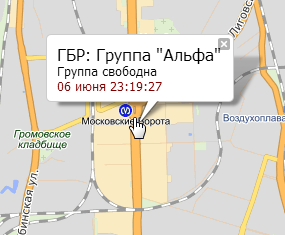
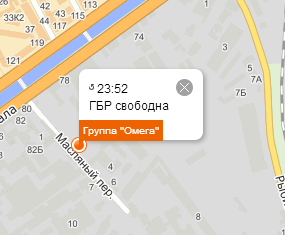
обновленная ситуационная карта

diff --git a/russian/12-cloud-services.md b/russian/12-cloud-services.md
@@ -54,21 +54,39 @@
 
 ## Ситуационная карта
 
-Облачная услуга «Ситуационная карта» предназначена для отображения на карте местности оперативной информации о тревожных объектах «Центра охраны» и текущем местоположении экипажей ГБР.
+Облачная услуга «Ситуационная карта» предназначена для отображения на карте местности оперативной информации об объектах «Центра охраны» и текущем местоположении экипажей ГБР.
 
 ![Ситуационная карта][id-13-03]
 
 Ссылки на ситуационную карту генерируются в административной панели учетной записи партнера в секции «Ситуационная карта». Здесь их можно скопировать в буфер при помощи одноименной функции и после этого передать ответственным лицам.
 
-Для отображения на карте тревожные объекты предварительно должны быть размещены на карте местности в модуле «Менеджер объектов» на вкладке «Объект». При щелчке правой кнопкой мыши на маркере объекта на ситуационной карте появится окно с информацией: номер, наименование и адрес объекта, а также дата и время тревоги.
+Для отображения на карте объекты предварительно должны быть размещены на карте местности в модуле «Менеджер объектов» на вкладке «Объект». 
+
+Маркеры объектов на карте различаются цветами. Зеленым цветом отображаются объекты, снятые с охраны, синим - взятые под охрану, красным - тревожные объекты. 
+
+По умолчанию на ситуационной карте отображаются все объекты. Управлять отображением нетревожных объектов на ситуационной карте можно с помощью кнопок «Сняты с охраны» и «Взяты под охрану». При их нажатии отображаются снятые с охраны и соответственно взятые под охрану объекты.
+
+Если нетревожные объекты при используемом масштабе карты располагаются слишком близко друг к другу, они кластеризуются для более удобного отображения. Внутри маркера кластера приводится информация о количестве объединенных в него объектов. 
+
+![Ситуационная карта: кластер][id-13-03-00]
+
+При щелчке правой кнопкой мыши по маркеру кластера масштаб карты устанавливается таким образом, чтобы объекты различались по отдельности. Если объекты визуально неразличимы друг от друга при максимальном масштабе, можно кликнуть по маркеру кластера для вызова окна с информацией о номере, названии и адресе объектов, объединенных в кластер.
+
+Внутри маркера объекта приводится номер объекта. Если объект тревожный, здесь также отображается время первой тревоги. При щелчке правой кнопкой мыши на маркере объекта на ситуационной карте появится окно с информацией: наименование и адрес объекта. 
+
+![Ситуационная карта: объект][id-13-03-01]
+
+Для тревожного объекта здесь также указывается время первой и последней тревоги.
 
 ![Ситуационная карта: тревожный объект][id-13-03-02]
 
 Отображение местоположения ГБР на карте возможно при наличии у экипажа планшета с установленным и запущенным мобильным приложением «Тревога в ГБР». В приложение должен быть осуществлен вход с помощью пароля доступа, предоставленного администратором учетной записи партнера. Кроме того, в приложении должна быть разрешена передача координат. Если ГБР не передает координаты более 300 секунд, группа перестает отображаться на ситуационной карте.
 
-Маркеры экипажей ГБР на карте различаются цветами. Синим цветом отображаются ГБР в режиме ожидания вызова, красным - ГБР на реагировании. 
+Маркеры экипажей ГБР на карте различаются цветами. Оранжевым цветом отображаются ГБР в режиме ожидания вызова, красным - ГБР на реагировании. 
 
-Внутри маркера ГБР приведено название группы. При щелчке правой кнопкой мыши на маркере ГБР появится окно с информацией о времени получения от планшета текущего местоположения группы и о ее состоянии (группа свободна или на реагировании). 
+Внутри маркера ГБР приводится название группы. Если группа вызвана и подтвердила вызов на объект, здесь также отображается номер объекта. 
+
+При щелчке правой кнопкой мыши на маркере ГБР появится окно с информацией о времени получения от планшета текущего местоположения группы и о ее состоянии (группа свободна или на реагировании).
 
 ![Ситуационная карта: свободная ГБР][id-13-03-03]
 
@@ -209,6 +227,8 @@ Web-интерфейс инженера предназначен для удал
 [id-13-01]: img/CldSrvcs-01-RouterConnection.png "Подключение Телефонного роутера"
 [id-13-02]: img/CldSrvcs-02-CallCenterServices.png "Выбор услуг при звонке в «Call-центр»"
 [id-13-03]: img/CldSrvcs-03-SituationalMap.png "Ситуационная карта"
+[id-13-03-00]: img/CldSrvcs-03-SituationalMap-00.png "Ситуационная карта: кластер"
+[id-13-03-01]: img/CldSrvcs-03-SituationalMap-01.png "Ситуационная карта: объект"
 [id-13-03-02]: img/CldSrvcs-03-SituationalMap-02.png "Ситуационная карта: тревожный объект"
 [id-13-03-03]: img/CldSrvcs-03-SituationalMap-03.png "Ситуационная карта: свободная ГБР"
 [id-13-03-04]: img/CldSrvcs-03-SituationalMap-04.png "Ситуационная карта: ГБР на реагировании"

diff --git a/russian/14-whats-new.md b/russian/14-whats-new.md
@@ -32,7 +32,7 @@ PIN коды для проверки КТС и для подтверждения
 
 ## Ситуационная карта
 
-Облачный сервис «Ситуационная карта» предназначен для отображения на карте информации о тревожных объектах «Центра охраны» и местоположении экипажей ГБР (См. [«Облачные сервисы. Ситуационная карта»](/12-cloud-services.html#ситуационная-карта)).
+Облачный сервис «Ситуационная карта» предназначен для отображения на карте информации об объектах «Центра охраны» и местоположении экипажей ГБР (См. [«Облачные сервисы. Ситуационная карта»](/12-cloud-services.html#ситуационная-карта)).
 
 Для отображения на ситуационной карте объекты должны быть предварительно размещены на карте с помощью функции «Разместить на карте...» в модуле «Менеджер объектов» (См. [«Менеджер объектов. Вкладка "Объект". Размещение объекта на карте»](/05-object-manager.html#размещение-объекта-на-карте)).
 
